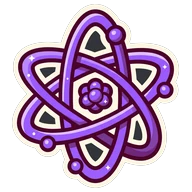
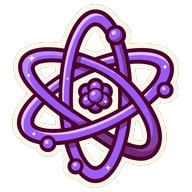
Ikony témat: uzavřené mezery s barvou pozadí (např. mezi drahami elektronů) jsou průhledné
Claude-Session: https://claude.ai/code/session_01BQmFBYsgGAXtVP2veUue6Z

diff --git a/scripts/topic-icons.py b/scripts/topic-icons.py
@@ -18,6 +18,18 @@ def cut(path):
     dark = Image.fromarray(((dist < 40) * 255).astype(np.uint8)).copy()
     ImageDraw.floodfill(dark, (3, 3), 128)
     outside = np.asarray(dark) == 128
+    # Uzavřené mezery uvnitř ikony (mezi drahami elektronů, uvnitř ucha…) mají také barvu pozadí a s okrajem nesouvisí:
+    # i ty jsou průhledné, ale jen dostatečně velké a opravdu barvy pozadí (drobné tmavé detaily kresby zůstanou)
+    near = (dist < 22) & ~outside
+    near_img = Image.fromarray((near * 255).astype(np.uint8))
+    core = np.asarray(near_img.filter(ImageFilter.MinFilter(5))) > 0
+    holes = Image.fromarray((near * 255).astype(np.uint8)).copy()
+    remaining = core.copy()
+    while remaining.any():
+        y, x = np.unravel_index(np.argmax(remaining), remaining.shape)
+        ImageDraw.floodfill(holes, (int(x), int(y)), 100)
+        remaining &= ~(np.asarray(holes) == 100)
+    outside = outside | (np.asarray(holes) == 100)
     out_img = Image.fromarray((outside * 255).astype(np.uint8))
     ring = np.asarray(out_img.filter(ImageFilter.MaxFilter(7))) > 0
     band = (np.asarray(out_img.filter(ImageFilter.MaxFilter(21))) > 0) & ~ring
